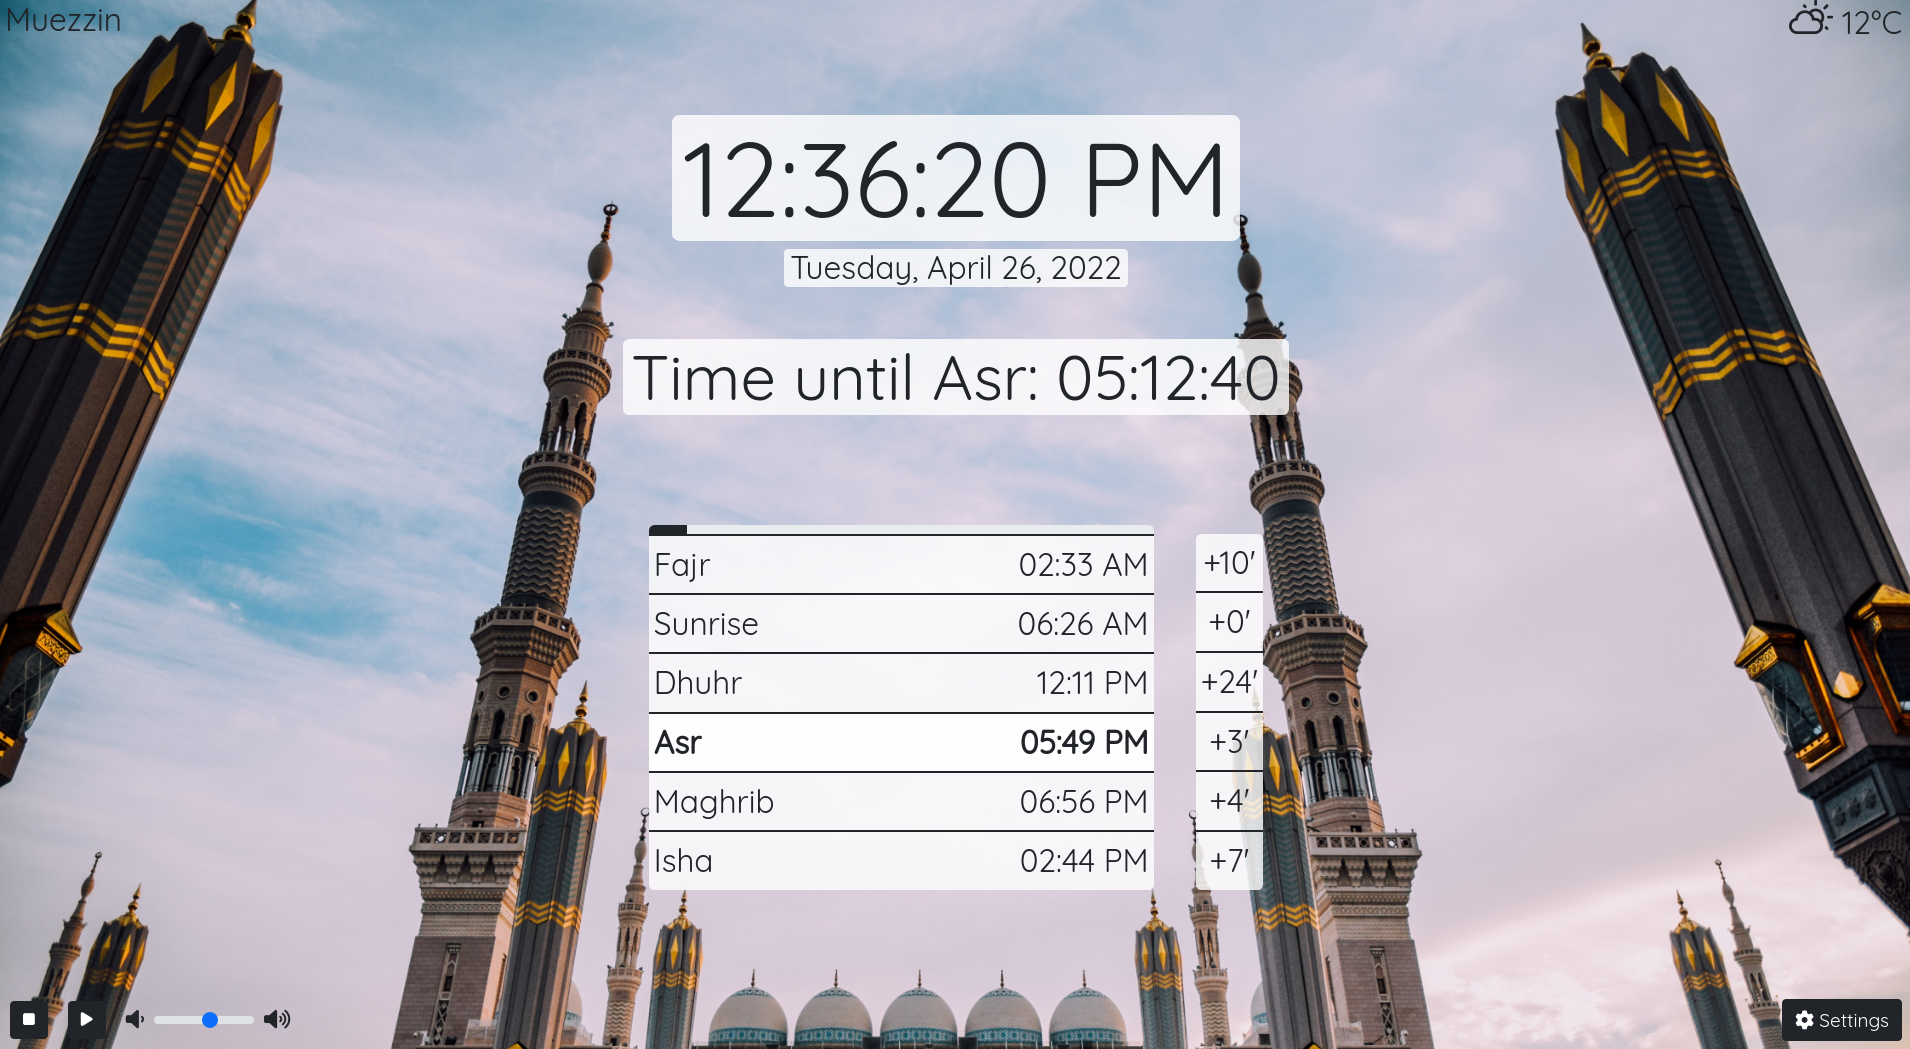
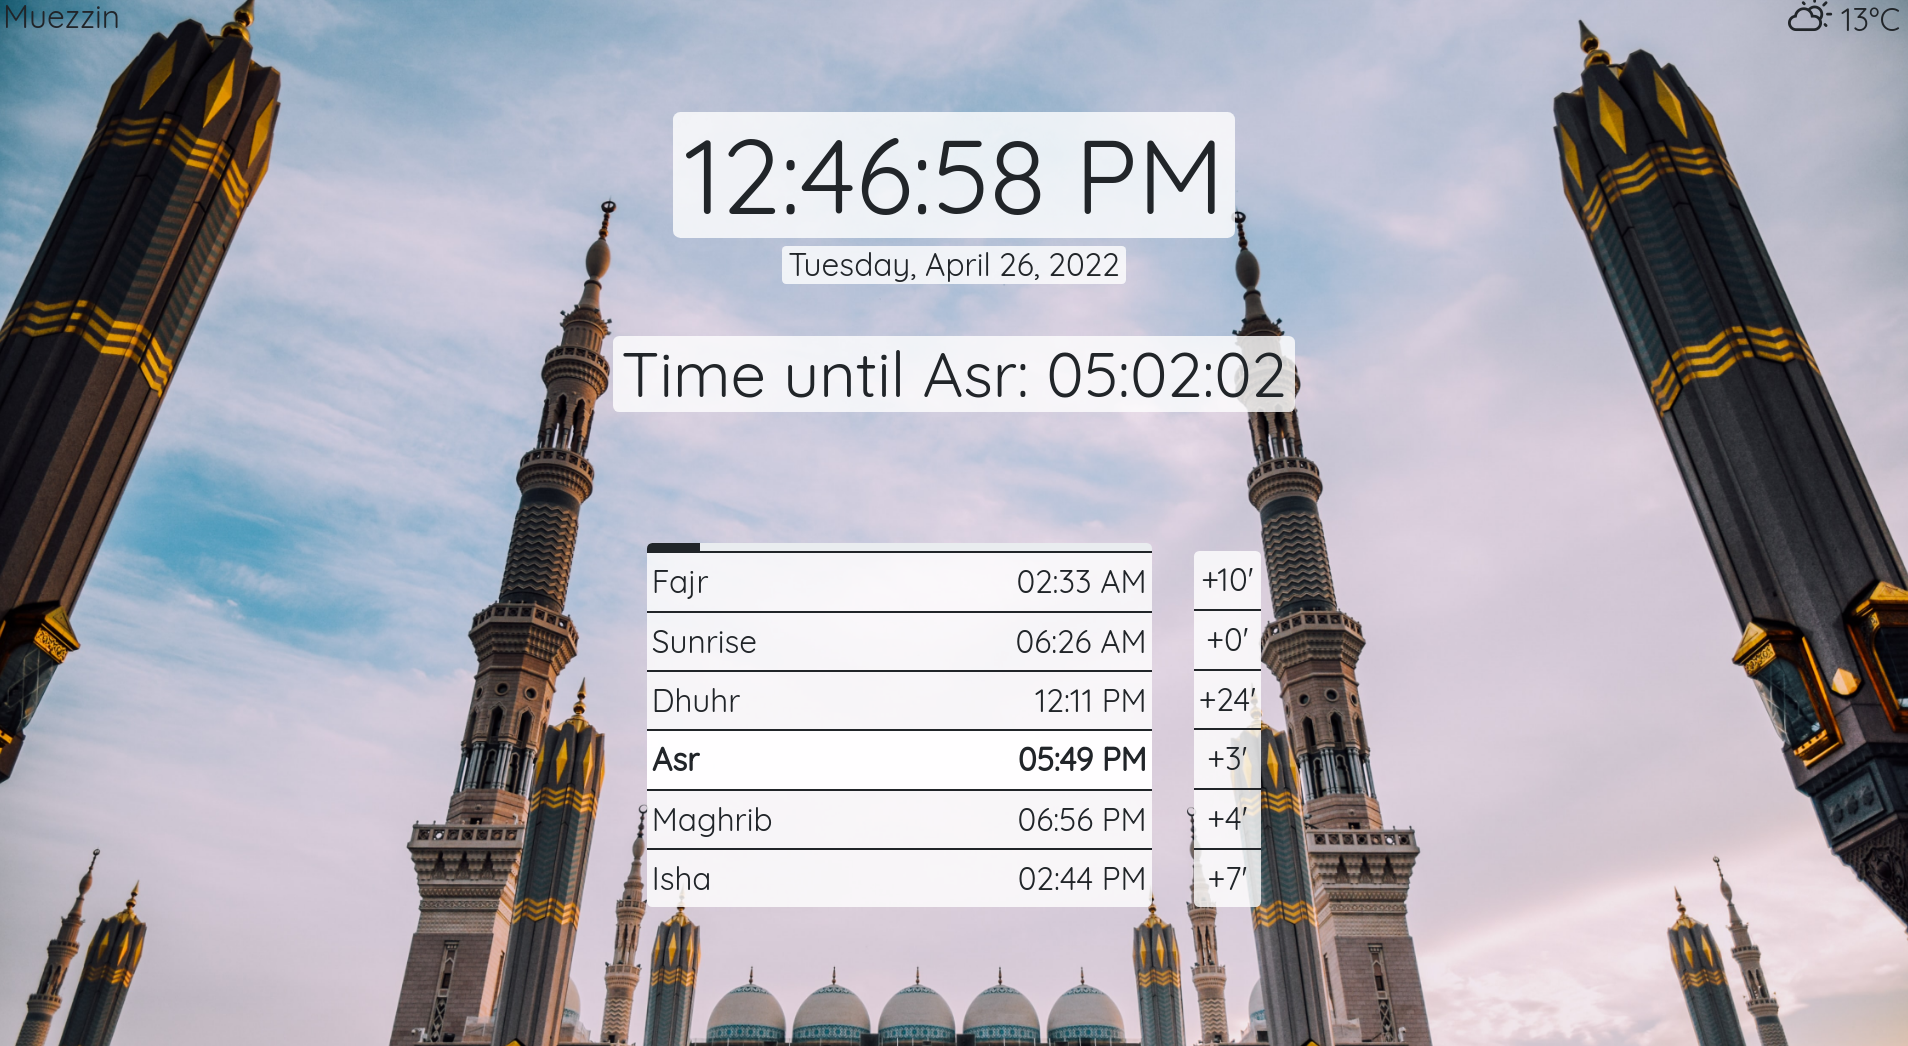
removed audio and settings buttons

diff --git a/src/main/renderer.js b/src/main/renderer.js
@@ -44,16 +44,12 @@ window.addEventListener('loadedSettings', () => {
 })
 
 window.addEventListener('loadedUI', () => {
-  volumeSlider()
   setKeyPress()
-  setupButtonListeners()
   setupUpdateModal()
   setupBorders()
   setProgress()
   loadedUI = true;
   hideLoader()
-
-  setupTasbih()
 
   window.api.send('loadedUI');
 })
@@ -480,20 +476,6 @@ async function loadClockDisplay(){
 }
 
 
-//Sets event listeners and IPCRenderers to make volume sliders work
-function volumeSlider(){
-  var volSlider = document.getElementById('volSlider');
-  volSlider.value = volume
-  volSlider.addEventListener('pointermove', function(){
-    window.api.send('volume-request', volSlider.value);
-  })
-  volSlider.addEventListener('change', function(){
-    window.api.send('volume-request', volSlider.value);
-    window.api.setToStore('volume', volSlider.value)
-  })
-}
-
-
 //Hides the media player in case the Adhan is disabled
 async function hidePlayer(){
   var enableAdhan = await window.api.getFromStore('settings.adhanCheck', true)
@@ -557,53 +539,8 @@ function loadLang(){
   document.getElementById('asr').innerText = langAsr
   document.getElementById('maghrib').innerText = langMaghrib
   document.getElementById('isha').innerText = langIsha
-  document.getElementById('settingsWheel').innerHTML = '<i class="fa fa-cog" aria-hidden="true"></i>  ' +  window.api.getLanguage(lang, 'settings')
   document.getElementById('motn').innerText = window.api.getLanguage(lang, 'motn')
   document.getElementById('totn').innerText = window.api.getLanguage(lang, 'totn')
-}
-
-function setupButtonListeners(){
-  document.getElementById('playB').addEventListener("click", function(){
-    window.api.send("play");
-  })
-  document.getElementById('stopB').addEventListener("click", function(){
-    window.api.send("stop");
-  })
-  document.getElementById('settingsWheel').addEventListener("click", function(){
-    window.api.send("settingsO");
-    window.location.href = "../settings/settings.html";
-  })
-}
-
-function setupTasbih(){
-  let tasbih = 0
-  let countdown;
-  document.getElementById('title').addEventListener("click", function(){
-    startTasbih()}
-  )
-
-  document.addEventListener('keydown', function(key){
-    if (key.key == "Enter" || key.key == " ") startTasbih()
-    else if (key.key == "Escape" || key.key == "Backspace" || key.key == "Delete") resetTasbih()
-  })
-
-  document.getElementById('title').addEventListener("contextmenu", function(){
-    resetTasbih()
-  })
-
-  function startTasbih(){
-    tasbih ++
-    document.getElementById('tasbih').innerHTML = '  | ' + '<i class="fa-solid fa-star-and-crescent"></i>  ' + tasbih
-    if (countdown != undefined) clearTimeout(countdown)
-    countdown = setTimeout(function(){
-      resetTasbih()
-    }, 10000)
-  }
-
-  function resetTasbih(){
-    tasbih = 0
-    document.getElementById('tasbih').innerHTML = ""
-  }
 }
 
 function setupSunnah(){

diff --git a/src/main/index.html b/src/main/index.html
@@ -108,22 +108,6 @@
   </body>
   <footer class="mt-auto" >
     <div id="footer" >
-      <div id="upperPart">
-        <div id="audioControls">
-          <button type="button" id="stopB" class="btn btn-dark"><i class="fa fa-stop"></i></button>
-          <button type="button" id="playB" class="btn btn-dark"><i class="fa fa-play"></i></button>
-          <div id="volume">
-            <i class="fa fa-volume-down"></i>
-            <input type="range" class="form-range" id="volSlider">
-            <i class="fa fa-volume-up"></i>
-          </div>
-        </div>
-        <div id="buttons">
-          <button href="../settings/settings.html" id="settingsWheel" class="btn btn-dark">
-            Settings
-          </button>
-        </div>
-      </div>
     </div>
   </footer>
 </html>

diff --git a/src/main/styles.css b/src/main/styles.css
@@ -113,31 +113,6 @@ body{
     user-select:text;
 }
 
-#buttons{
-    margin-left: auto;
-}
-
-#settingsWheel , #quranButton{
-    margin: 10px;
-    font-size: max(1.8vh, 15px);
-}
-
-#stopB, #playB{
-    margin: 10px;
-    font-size: max(1.5vh, 14px);
-}
-
-#volume{
-    margin-left: 10px;
-    display: flex;
-    align-items: center;
-    font-size: x-large;
-}
-
-.fa-volume-down, .fa-volume-up{
-    font-size: max(2vh, 20px);
-}
-
 #mainContainer{
     width: fit-content;
     display: flex;
@@ -150,15 +125,6 @@ body{
     align-content: center;
 }
 
-#audioControls, #upperPart{
-    flex-direction: row;
-    display: flex;
-    align-items: center;
-}
-
-#volSlider{
-    margin: 0px 10px 0px 10px;
-}
 
 .center{
     position: absolute; 
